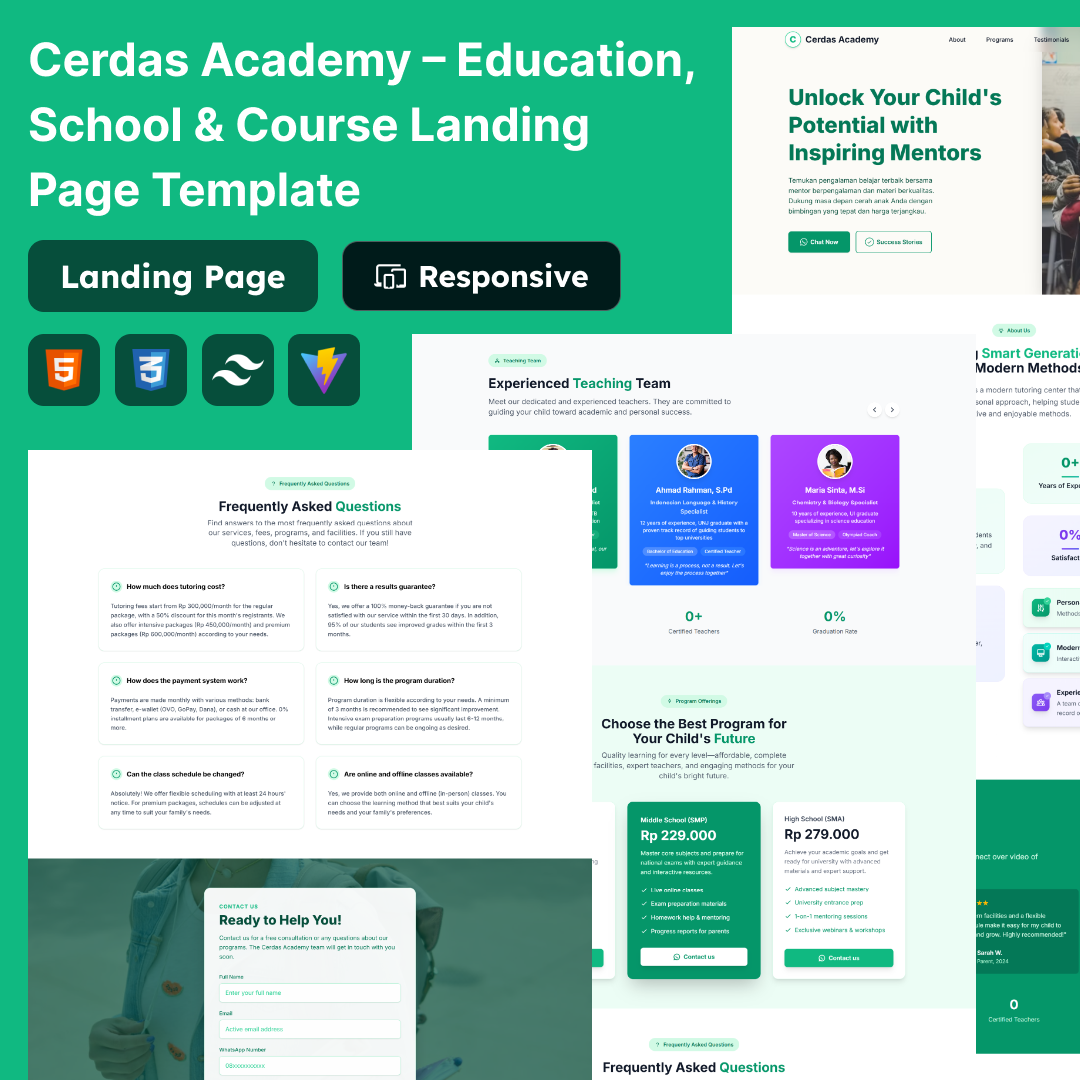
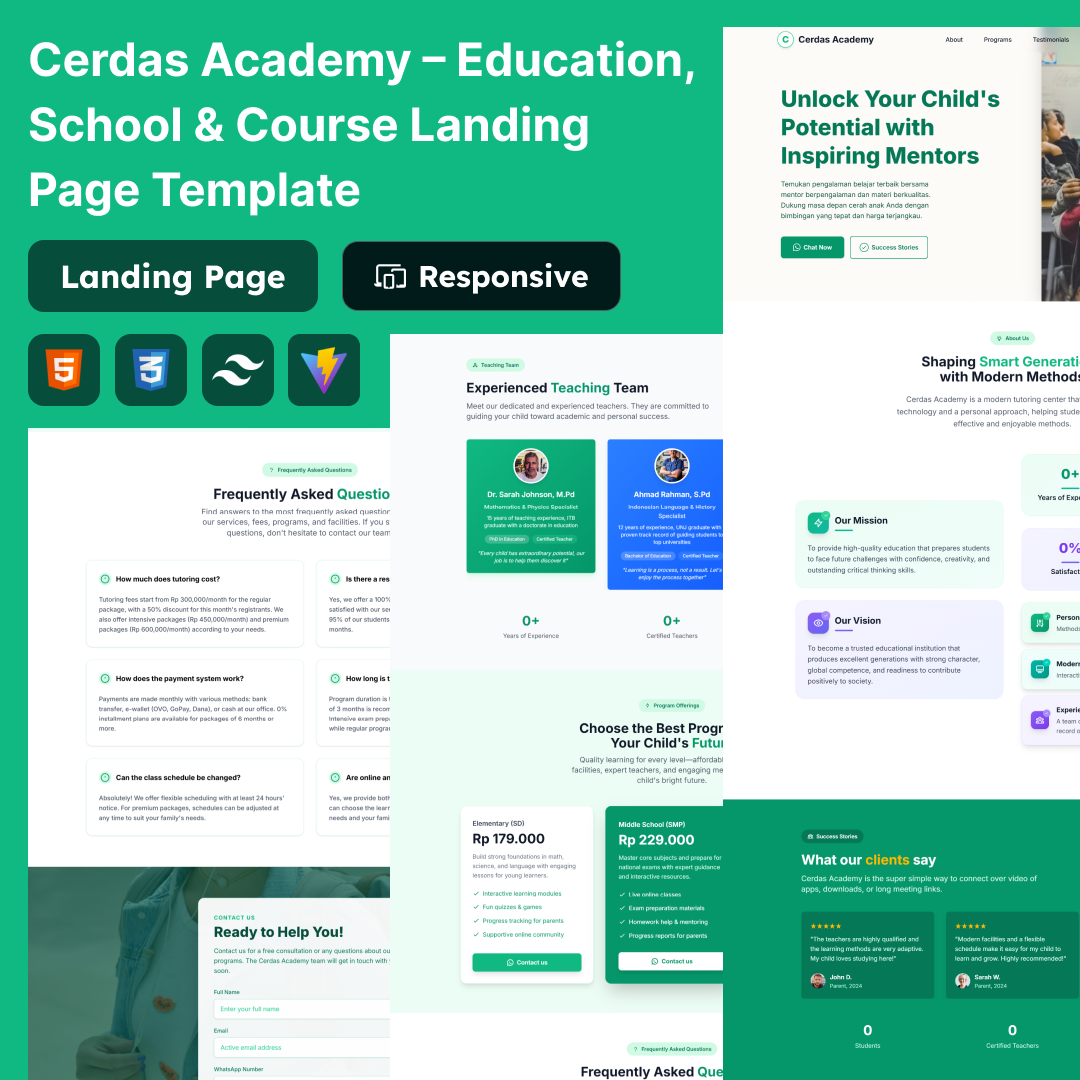
fix : remove link href

diff --git a/index.html b/index.html
@@ -23,7 +23,7 @@
     <header id="header" class="fixed top-0 left-0 right-0 z-50 transition-all duration-300 bg-transparent backdrop-blur-md">
       <nav class="w-full max-w-7xl mx-auto px-4 py-3 flex items-center justify-between">
         <!-- Logo -->
-        <a href="/" class="flex items-center gap-3 group">
+        <a href="" class="flex items-center gap-3 group">
           <div class="w-11 h-11 bg-white/80 border-2 border-emerald-400 rounded-full flex items-center justify-center shadow-md transition group-hover:scale-105">
             <span class="text-emerald-500 font-extrabold text-2xl">C</span>
           </div>
@@ -39,7 +39,7 @@
         </div>
         <!-- CTA Button -->
         <div class="hidden lg:block ml-4">
-          <a href="/" class="bg-emerald-500 hover:bg-emerald-600 text-white font-semibold px-5 py-2 rounded-full shadow transition flex items-center gap-2">
+          <a href="" class="bg-emerald-500 hover:bg-emerald-600 text-white font-semibold px-5 py-2 rounded-full shadow transition flex items-center gap-2">
             <svg class="w-4.5 h-4.5" viewBox="0 0 24 24" fill="currentColor">
               <path d="M20.52 3.48A11.93 11.93 0 0 0 12 0C5.37 0 0 5.37 0 12c0 2.11.55 4.17 1.6 6.01L0 24l6.18-1.62A11.97 11.97 0 0 0 12 24c6.63 0 12-5.37 12-12 0-3.19-1.24-6.19-3.48-8.52zM12 22c-1.77 0-3.5-.46-5.01-1.33l-.36-.21-3.67.96.98-3.58-.23-.37A9.94 9.94 0 0 1 2 12c0-5.52 4.48-10 10-10s10 4.48 10 10-4.48 10-10 10zm5.13-7.47c-.28-.14-1.65-.81-1.9-.9-.25-.09-.43-.14-.6.12-.17.26-.68.87-.84 1.04-.16.17-.31.19-.57.08-.26-.12-1.08-.4-2.07-1.32-.77-.69-1.29-1.54-1.44-1.81-.15-.27-.02-.41.11-.54.12-.12.27-.32.4-.47.13-.15.18-.28.27-.46.09-.18.05-.35-.02-.48-.07-.13-.57-1.41-.78-1.92-.21-.51-.43-.45-.58-.46-.15-.01-.34-.01-.52-.01s-.48.07-.73.32c-.25.25-.95.93-.95 2.28 0 1.35.98 2.65 1.12 2.84.14.19 1.94 2.91 4.7 3.96.66.27 1.18.43 1.58.55.66.21 1.27.18 1.75.11.54-.08 1.58-.64 1.8-1.26.22-.62.22-1.15.16-1.26-.06-.11-.23-.19-.51-.32z">
           </svg>
@@ -76,7 +76,7 @@
             <svg class="w-5 h-5 text-purple-400" fill="none" stroke="currentColor" stroke-width="2" viewBox="0 0 24 24"><path d="M21 10a9 9 0 11-18 0 9 9 0 0118 0z"></path><path d="M15 9h.01M9 9h.01M8 13a4 4 0 008 0"></path></svg>
             Contact
           </a>
-          <a href="/" class="mx-6 mt-6 flex items-center justify-center gap-2 bg-emerald-500 hover:bg-emerald-600 text-white font-bold px-8 py-3 rounded-full shadow-lg text-lg transition">
+          <a href="" class="mx-6 mt-6 flex items-center justify-center gap-2 bg-emerald-500 hover:bg-emerald-600 text-white font-bold px-8 py-3 rounded-full shadow-lg text-lg transition">
             <svg class="w-5 h-5" viewBox="0 0 24 24" fill="currentColor">
               <path d="M20.52 3.48A11.93 11.93 0 0 0 12 0C5.37 0 0 5.37 0 12c0 2.11.55 4.17 1.6 6.01L0 24l6.18-1.62A11.97 11.97 0 0 0 12 24c6.63 0 12-5.37 12-12 0-3.19-1.24-6.19-3.48-8.52zM12 22c-1.77 0-3.5-.46-5.01-1.33l-.36-.21-3.67.96.98-3.58-.23-.37A9.94 9.94 0 0 1 2 12c0-5.52 4.48-10 10-10s10 4.48 10 10-4.48 10-10 10zm5.13-7.47c-.28-.14-1.65-.81-1.9-.9-.25-.09-.43-.14-.6.12-.17.26-.68.87-.84 1.04-.16.17-.31.19-.57.08-.26-.12-1.08-.4-2.07-1.32-.77-.69-1.29-1.54-1.44-1.81-.15-.27-.02-.41.11-.54.12-.12.27-.32.4-.47.13-.15.18-.28.27-.46.09-.18.05-.35-.02-.48-.07-.13-.57-1.41-.78-1.92-.21-.51-.43-.45-.58-.46-.15-.01-.34-.01-.52-.01s-.48.07-.73.32c-.25.25-.95.93-.95 2.28 0 1.35.98 2.65 1.12 2.84.14.19 1.94 2.91 4.7 3.96.66.27 1.18.43 1.58.55.66.21 1.27.18 1.75.11.54-.08 1.58-.64 1.8-1.26.22-.62.22-1.15.16-1.26-.06-.11-.23-.19-.51-.32z">
           </svg>
@@ -100,7 +100,7 @@
             Temukan pengalaman belajar terbaik bersama mentor berpengalaman dan materi berkualitas. Dukung masa depan cerah anak Anda dengan bimbingan yang tepat dan harga terjangkau.
           </p>
           <div class="flex items-center gap-4 flex-wrap" data-aos="fade" data-aos-delay="400">
-            <a href="/" class="flex-grow justify-center flex bg-emerald-600 text-white font-semibold px-8 py-4 rounded-lg shadow hover:bg-emerald-700 transition flex items-center gap-2" data-aos="fade" data-aos-delay="500">
+            <a href="" class="flex-grow justify-center flex bg-emerald-600 text-white font-semibold px-8 py-4 rounded-lg shadow hover:bg-emerald-700 transition flex items-center gap-2" data-aos="fade" data-aos-delay="500">
               <svg class="w-5 h-5" viewBox="0 0 24 24" fill="currentColor">
                 <path d="M20.52 3.48A11.93 11.93 0 0 0 12 0C5.37 0 0 5.37 0 12c0 2.11.55 4.17 1.6 6.01L0 24l6.18-1.62A11.97 11.97 0 0 0 12 24c6.63 0 12-5.37 12-12 0-3.19-1.24-6.19-3.48-8.52zM12 22c-1.77 0-3.5-.46-5.01-1.33l-.36-.21-3.67.96.98-3.58-.23-.37A9.94 9.94 0 0 1 2 12c0-5.52 4.48-10 10-10s10 4.48 10 10-4.48 10-10 10zm5.13-7.47c-.28-.14-1.65-.81-1.9-.9-.25-.09-.43-.14-.6.12-.17.26-.68.87-.84 1.04-.16.17-.31.19-.57.08-.26-.12-1.08-.4-2.07-1.32-.77-.69-1.29-1.54-1.44-1.81-.15-.27-.02-.41.11-.54.12-.12.27-.32.4-.47.13-.15.18-.28.27-.46.09-.18.05-.35-.02-.48-.07-.13-.57-1.41-.78-1.92-.21-.51-.43-.45-.58-.46-.15-.01-.34-.01-.52-.01s-.48.07-.73.32c-.25.25-.95.93-.95 2.28 0 1.35.98 2.65 1.12 2.84.14.19 1.94 2.91 4.7 3.96.66.27 1.18.43 1.58.55.66.21 1.27.18 1.75.11.54-.08 1.58-.64 1.8-1.26.22-.62.22-1.15.16-1.26-.06-.11-.23-.19-.51-.32z">
               </svg>
@@ -545,7 +545,7 @@
             </div>
             <h3 class="text-lg font-semibold mb-2">Flexible Schedules</h3>
             <p class="text-emerald-100 mb-6">Busy family? No problem. Our flexible class times and online options make it easy to fit learning into your child's routine.</p>
-            <a href="/" class="inline-flex items-center gap-2 mt-auto px-5 py-2 rounded-full bg-white text-emerald-700 font-semibold shadow hover:bg-emerald-100 transition">
+            <a href="" class="inline-flex items-center gap-2 mt-auto px-5 py-2 rounded-full bg-white text-emerald-700 font-semibold shadow hover:bg-emerald-100 transition">
               <svg class="w-5 h-5" fill="currentColor" viewBox="0 0 32 32"><path d="M16 3C8.268 3 2 9.268 2 17c0 2.837.744 5.49 2.04 7.8L2.07 29.93a1 1 0 0 0 1.22 1.22l5.13-2.01A13.01 13.01 0 0 0 16 31c7.732 0 14-6.268 14-14S23.732 3 16 3zm0 24c-1.98 0-3.89-.39-5.65-1.13l-.4-.16-3.62 1.42 1.38-3.5-.2-.36A10.97 10.97 0 0 1 5 17c0-6.065 4.935-11 11-11s11 4.935 11 11-4.935 11-11 11zm5.36-7.2c-.29-.15-1.72-.85-1.98-.95-.26-.1-.45-.15-.63.13-.18.28-.72.92-.89 1.1-.17.18-.33.2-.61.08-.28-.13-1.19-.44-2.27-1.41-.84-.75-1.41-1.67-1.57-1.95-.16-.28-.02-.44.12-.58.13-.13.29-.35.43-.52.14-.17.19-.3.29-.49.1-.19.06-.37-.02-.51-.07-.14-.62-1.5-.85-2.05-.23-.55-.46-.48-.62-.49-.16-.01-.36-.01-.55-.01s-.51.07-.77.34c-.26.27-1.01 1.01-1.01 2.47 0 1.46 1.04 2.87 1.19 3.07.15.2 2.06 3.14 5 4.27.7.29 1.25.46 1.67.59.7.22 1.34.19 1.85.12.57-.08 1.67-.68 1.91-1.34.24-.66.24-1.22.17-1.34-.07-.12-.25-.2-.54-.34z"></svg>
               Contact Us
             </a>
@@ -883,7 +883,7 @@
             
             <!-- Call to Action -->
             <div class="text-center" data-aos="fade" data-aos-delay="550" data-aos-duration="500">
-                <a href="/" class="inline-flex items-center gap-2 bg-emerald-700 hover:bg-emerald-800 text-white font-semibold px-6 sm:px-8 py-3 sm:py-4 rounded-full shadow-lg transition-all duration-300 transform hover:scale-105">
+                <a href="" class="inline-flex items-center gap-2 bg-emerald-700 hover:bg-emerald-800 text-white font-semibold px-6 sm:px-8 py-3 sm:py-4 rounded-full shadow-lg transition-all duration-300 transform hover:scale-105">
                     <svg class="w-5 h-5" fill="none" stroke="currentColor" viewBox="0 0 24 24">
                         <path stroke-linecap="round" stroke-linejoin="round" stroke-width="2" d="M8 12h.01M12 12h.01M16 12h.01M21 12c0 4.418-4.03 8-9 8a9.863 9.863 0 01-4.255-.949L3 20l1.395-3.72C3.512 15.042 3 13.574 3 12c0-4.418 4.03-8 9-8s9 3.582 9 8z"></path>
                     </svg>
@@ -1137,7 +1137,7 @@
                 </li>
               </ul>
             </div>
-            <a href="/" class="btn-primary w-full flex items-center justify-center gap-2 transition duration-200 hover:bg-emerald-600 hover:text-white">
+            <a href="" class="btn-primary w-full flex items-center justify-center gap-2 transition duration-200 hover:bg-emerald-600 hover:text-white">
               <svg class="w-5 h-5" fill="currentColor" viewBox="0 0 32 32"><path d="M16 3C8.268 3 2 9.268 2 17c0 2.837.744 5.49 2.04 7.8L2.07 29.93a1 1 0 0 0 1.22 1.22l5.13-2.01A13.01 13.01 0 0 0 16 31c7.732 0 14-6.268 14-14S23.732 3 16 3zm0 24c-1.98 0-3.89-.39-5.65-1.13l-.4-.16-3.62 1.42 1.38-3.5-.2-.36A10.97 10.97 0 0 1 5 17c0-6.065 4.935-11 11-11s11 4.935 11 11-4.935 11-11 11zm5.36-7.2c-.29-.15-1.72-.85-1.98-.95-.26-.1-.45-.15-.63.13-.18.28-.72.92-.89 1.1-.17.18-.33.2-.61.08-.28-.13-1.19-.44-2.27-1.41-.84-.75-1.41-1.67-1.57-1.95-.16-.28-.02-.44.12-.58.13-.13.29-.35.43-.52.14-.17.19-.3.29-.49.1-.19.06-.37-.02-.51-.07-.14-.62-1.5-.85-2.05-.23-.55-.46-.48-.62-.49-.16-.01-.36-.01-.55-.01s-.51.07-.77.34c-.26.27-1.01 1.01-1.01 2.47 0 1.46 1.04 2.87 1.19 3.07.15.2 2.06 3.14 5 4.27.7.29 1.25.46 1.67.59.7.22 1.34.19 1.85.12.57-.08 1.67-.68 1.91-1.34.24-.66.24-1.22.17-1.34-.07-.12-.25-.2-.54-.34z"></svg>
               Contact us
             </a>
@@ -1169,7 +1169,7 @@
                 </li>
               </ul>
             </div>
-            <a href="/" class="w-full bg-white text-emerald-600 font-bold py-3 px-8 rounded-lg shadow-lg hover:bg-emerald-100 hover:text-emerald-700 transition flex items-center justify-center gap-2">
+            <a href="" class="w-full bg-white text-emerald-600 font-bold py-3 px-8 rounded-lg shadow-lg hover:bg-emerald-100 hover:text-emerald-700 transition flex items-center justify-center gap-2">
               <svg class="w-5 h-5" fill="currentColor" viewBox="0 0 32 32"><path d="M16 3C8.268 3 2 9.268 2 17c0 2.837.744 5.49 2.04 7.8L2.07 29.93a1 1 0 0 0 1.22 1.22l5.13-2.01A13.01 13.01 0 0 0 16 31c7.732 0 14-6.268 14-14S23.732 3 16 3zm0 24c-1.98 0-3.89-.39-5.65-1.13l-.4-.16-3.62 1.42 1.38-3.5-.2-.36A10.97 10.97 0 0 1 5 17c0-6.065 4.935-11 11-11s11 4.935 11 11-4.935 11-11 11zm5.36-7.2c-.29-.15-1.72-.85-1.98-.95-.26-.1-.45-.15-.63.13-.18.28-.72.92-.89 1.1-.17.18-.33.2-.61.08-.28-.13-1.19-.44-2.27-1.41-.84-.75-1.41-1.67-1.57-1.95-.16-.28-.02-.44.12-.58.13-.13.29-.35.43-.52.14-.17.19-.3.29-.49.1-.19.06-.37-.02-.51-.07-.14-.62-1.5-.85-2.05-.23-.55-.46-.48-.62-.49-.16-.01-.36-.01-.55-.01-.19 0-.51.07-.77.34-.26.27-1.01 1.01-1.01 2.47 0 1.46 1.04 2.87 1.19 3.07.15.2 2.06 3.14 5 4.27.7.29 1.25.46 1.67.59.7.22 1.34.19 1.85.12.57-.08 1.67-.68 1.91-1.34.24-.66.24-1.22.17-1.34-.07-.12-.25-.2-.54-.34z"></svg>
               Contact us
             </a>
@@ -1201,7 +1201,7 @@
                 </li>
               </ul>
             </div>
-            <a href="/" class="btn-primary w-full flex items-center justify-center gap-2 transition duration-200 hover:bg-emerald-600 hover:text-white">
+            <a href="" class="btn-primary w-full flex items-center justify-center gap-2 transition duration-200 hover:bg-emerald-600 hover:text-white">
               <svg class="w-5 h-5" fill="currentColor" viewBox="0 0 32 32"><path d="M16 3C8.268 3 2 9.268 2 17c0 2.837.744 5.49 2.04 7.8L2.07 29.93a1 1 0 0 0 1.22 1.22l5.13-2.01A13.01 13.01 0 0 0 16 31c7.732 0 14-6.268 14-14S23.732 3 16 3zm0 24c-1.98 0-3.89-.39-5.65-1.13l-.4-.16-3.62 1.42 1.38-3.5-.2-.36A10.97 10.97 0 0 1 5 17c0-6.065 4.935-11 11-11s11 4.935 11 11-4.935 11-11 11zm5.36-7.2c-.29-.15-1.72-.85-1.98-.95-.26-.1-.45-.15-.63.13-.18.28-.72.92-.89 1.1-.17.18-.33.2-.61.08-.28-.13-1.19-.44-2.27-1.41-.84-.75-1.41-1.67-1.57-1.95-.16-.28-.02-.44.12-.58.13-.13.29-.35.43-.52.14-.17.19-.3.29-.49.1-.19.06-.37-.02-.51-.07-.14-.62-1.5-.85-2.05-.23-.55-.46-.48-.62-.49-.16-.01-.36-.01-.55-.01s-.51.07-.77.34c-.26.27-1.01 1.01-1.01 2.47 0 1.46 1.04 2.87 1.19 3.07.15.2 2.06 3.14 5 4.27.7.29 1.25.46 1.67.59.7.22 1.34.19 1.85.12.57-.08 1.67-.68 1.91-1.34.24-.66.24-1.22.17-1.34-.07-.12-.25-.2-.54-.34z"></svg>
               Contact us
             </a>
@@ -1494,7 +1494,7 @@
     </footer>
 
   <!-- Floating WhatsApp Button -->
-    <a href="/" rel="noopener" aria-label="Chat on WhatsApp"
+    <a href="" rel="noopener" aria-label="Chat on WhatsApp"
        class="fixed bottom-8 right-8 bg-emerald-500 text-white p-4 rounded-full shadow-lg hover:bg-emerald-600 transition-all animate-bounce z-50">
         <!-- WhatsApp icon (new) -->
         <svg class="w-7 h-7" viewBox="0 0 24 24" fill="currentColor">
